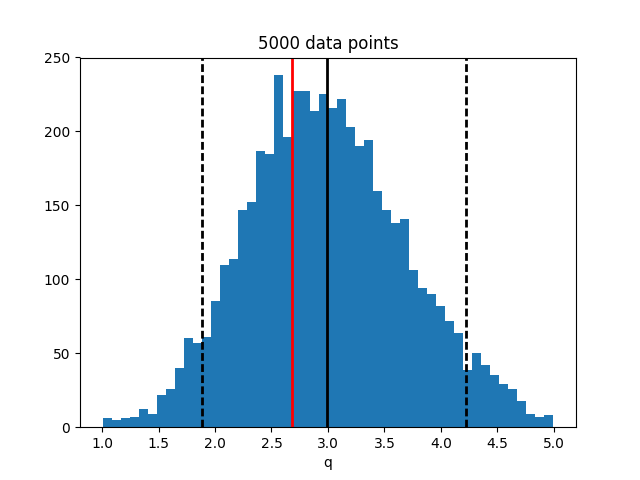
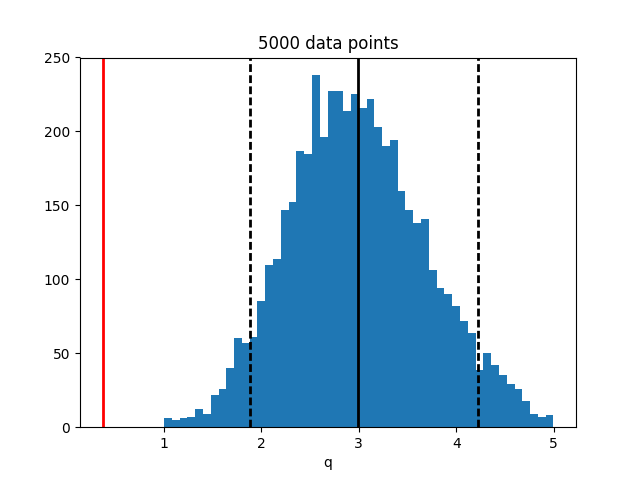
Added inverted q posterior and fixed bugs in postMulti

diff --git a/Inference/postMulti.py b/Inference/postMulti.py
@@ -38,7 +38,6 @@ num_its=int(injected["n_its"])
 ## Function to extract posterior for a given parameter
 def getParameter(parameter):
    ## Prepare to read in parameters
-   savename=folder+parameter
    datafile=folder+data_name
    fp = InferenceFile("%s" % datafile, "r")
    
@@ -141,15 +140,18 @@ def plotPosterior(parameter):
       injected_value=0 ## Will function this after debugging
    elif parameter=="chi_p":
       parameter_values=chi_p()
-      injected)value=0 ## Will function this after debug
-   elif paramter=="q":
-      parameter_values=(getParameter(parameter))^(-1.)
-      injected_value=(injected["q"])^(-1.) ## Flip both of these..
+      injected_value=0 ## Will function this after debug
+   elif parameter=="q":
+      parameter_values=getParameter(parameter)
+      paramter_values=1./parameter_values
+      injected_value=injected["q"] ## Flip both of these..
+      injected_value=1./injected_value
    else:
       parameter_values=getParameter(parameter)
       values=len(parameter_values)
       injected_value=injected[parameter]
-   
+
+   savename=folder+parameter   
    values=len(parameter_values)
    ## Find confidence intervals
    parameter_values=np.sort(parameter_values)
